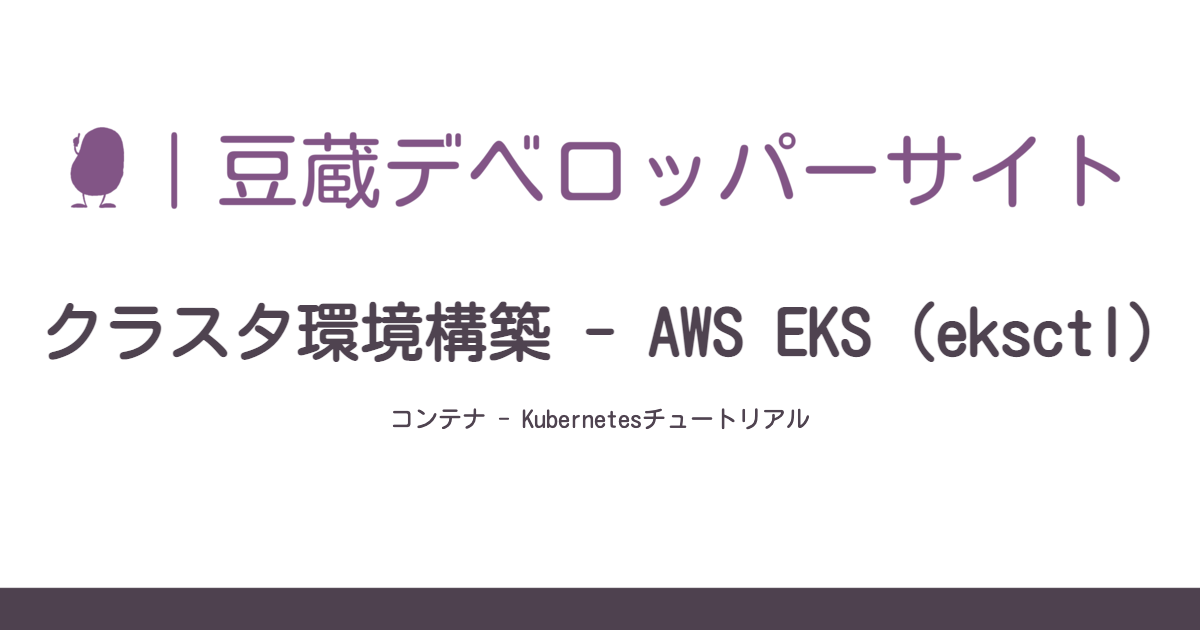
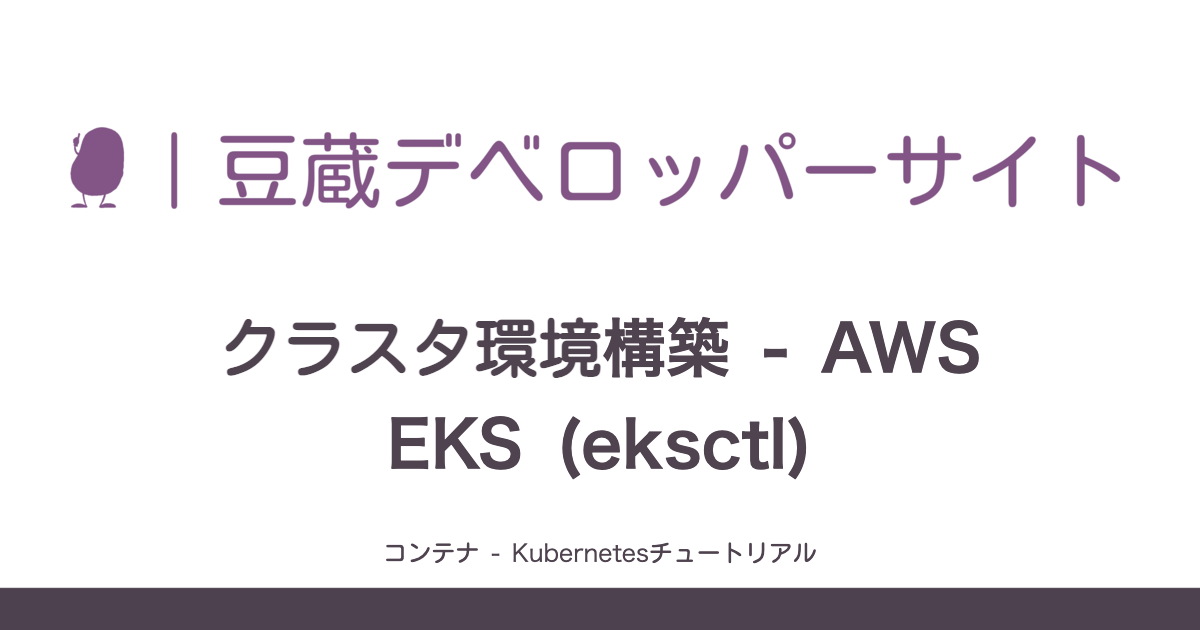
ペアワイズ法をGUIから使いこなすツール「PictMaster」の紹介 (#248)
* ペアワイズ法をGUIから使いこなすツール「PictMaster」の紹介

* Add OGP images for social media

diff --git a/src/posts/blogs/2022/0723_pictmaster.md b/src/posts/blogs/2022/0723_pictmaster.md
@@ -1,0 +1,115 @@
+---
+title: ペアワイズ法をGUIから使いこなすツール「PictMaster」の紹介
+author: shuichi-takatsu
+date: 2022-07-23
+tags: [テスト]
+---
+
+[前々回](/blogs/2022/07/11/pairwise-test/)、[前回](/blogs/2022/07/15/pairwise-test-case-creation-tool-pict/)とペアワイズ法に関する情報を発信してきました。  
+今回は前回紹介したPICTをGUIから利用できるようにした便利ツールである「PictMaster」について紹介します。
+
+[[TOC]]
+
+## PictMasterとは
+
+詳しくは[PictMasterのサイト](https://ja.osdn.net/projects/pictmaster/)の説明を読んでいただくとして、PictMasterについて簡単にご説明します。  
+PictMasterはExcelベースのツールです。  
+Excel上で因子・水準等を設定するだけで簡単にPICTを操作して、結果をExcel表にして出力してくれます。
+
+PictMasterのテストケース生成エンジンとして
+- Microsoft製ペアワイズ法テストケース生成エンジンPICT
+- 大阪大学の土屋達弘教授が開発したCIT-BACH
+
+の２つが利用できます。  
+（デフォルトはPICTが選択されています）  
+また直交表ツールとしてのテストケース生成もサポートしています。
+
+## ダウンロード
+
+PictMasterは次のプロジェクトサイトからダウンロードします。
+
+[PictMaster](https://ja.osdn.net/projects/pictmaster/)  
+
+（2022-07-22 時点最新：PictMaster Japanese version 7.0.4J ）
+
+## インストール
+
+ダウンロードしたファイルはZip形式になっていますのでファイルを解凍します。  
+以下に示すファイルが同梱されています。
+
+![](https://gyazo.com/fb86f166bdb1b2005d9d012a7de5b215.png)
+
+「0.初めに読んでください.txt」を開いて中身を確認します。  
+PictMasterには32ビット版と64ビットの２種類が用意されていることが書かれています。  
+
+ユーザマニュアル内にPICTのダウンロードURLが記述されていますが、URLが誤っていますので、[このURL](https://github.com/microsoft/pict/releases/download/v3.7.4/pict.exe)からPICTをダウンロードしてください。
+
+ダウンロードしたPICT実行ファイル(pict.exe)と一緒に、先ほどダウンロードしたPictMaster関連ファイルの中に含まれている
+- cit.jar
+- nkf.exe
+- oalib
+- oalibmix
+
+の4ファイルをPICTと同じフォルダパスに格納します。  
+筆者はPictMasterユーザーズマニュアルに従って以下のパスにインストールしました。  
+`C:\Program Files (x86)\PICT`
+
+![](https://gyazo.com/747260d35e1a915dd911b52beafbbaf0.png)
+
+## 起動
+
+PictMasterは32ビット版と64ビット版の2種類が同梱されています。  
+各自の環境に合ったものを使用してください。  
+- PictMaster.xlsm (32ビット版)
+- PictMaster64.xlsm (64ビット版)
+
+(注意：予めExcelがインストールされていることが条件です)
+
+PictMasterを起動すると以下のようなExcelシートが開きます。
+
+![](https://gyazo.com/963c29eec6919afc11dce6f4a51c06e8.png)
+
+大項目No.、小項目No.、大項目名、小項目名、作成日、作成者の項目は必要に応じて記入します。
+
+環境設定ボタンを押します。  
+
+![](https://gyazo.com/5a3847a40e1db2b7ea87590624d2f7db.png)
+
+以下のようなダイアログが表示されました。
+
+![](https://gyazo.com/00334b773baa15731d580f379700e934.png)
+
+取りあえず、デフォルトのままとします。  
+キャンセルボタンを押してダイアログを閉じます。  
+
+前回のブログで紹介した組み合わせテストの例題をPictMasterのシート上に設定してみましょう。  
+例題は以下です。    
+・OS (Windows, Linux, MacOSX)  
+・ブラウザ (Firefox, Chrome)  
+・Java (バージョン8, バージョン11)  
+
+Excelシート上に以下のようにデータを設定します。  
+
+![](https://gyazo.com/d76071e5c6679fd10b7b5fa6c741fa79.png)
+
+シート右上の「実行」ボタンを押します。  
+
+![](https://gyazo.com/a535bed3e4727cafaf241716649e8ce2.png)
+
+以下のような結果が別シートで開きました。  
+
+![](https://gyazo.com/b10735965a3921af03204496cd748808.png)
+
+上記の出力結果は、前回PICTをコマンドラインから実行したときに得たものと同じ結果になりました。  
+２因子網羅のテストケースが生成されていることがわかります。
+
+## まとめ
+
+今回はPICTをGUIから便利に使いこなす「PictMaster」を取り上げました。  
+PICTには豊富なオプションが用意されていますが、多くをPictMasterから利用できます。  
+次回はそれらのオプションを紹介していきたいと思います。
+
+[ソフトウェアテストに関する技法やテクニックをまとめています。](/testing/)
+
+テストに活用していただければ幸いです。
+

diff --git a/src/pages/testing.md b/src/pages/testing.md
@@ -50,5 +50,6 @@ description: ソフトウェアテストに関する技法やテクニック
 
 - [複数因子の組み合わせテストケースを簡単に効率よく導出する](/blogs/2022/07/11/pairwise-test/)
 - [ペアワイズ法による組み合わせテストケース生成ツール「PICT」の紹介](/blogs/2022/07/15/pairwise-test-case-creation-tool-pict/)
+- [ペアワイズ法をGUIから使いこなすツール「PictMaster」の紹介](/blogs/2022/07/23/pictmaster/)
 
 <div style="margin-top: 3rem"><span style="font-size: 1.2rem;color: red;">その他多数記事を追加予定です！！</span></div>
